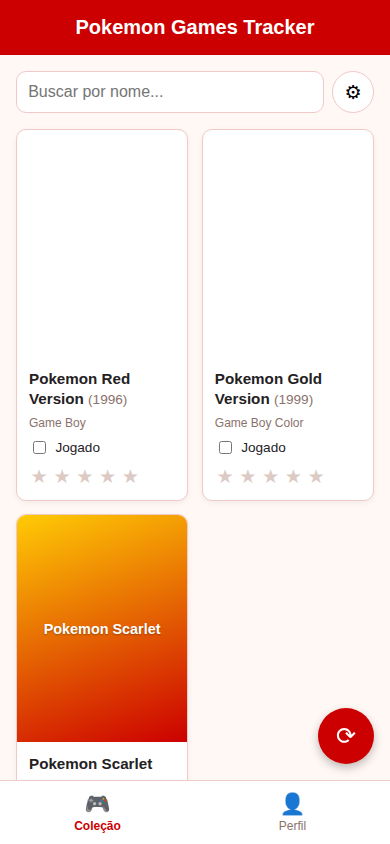
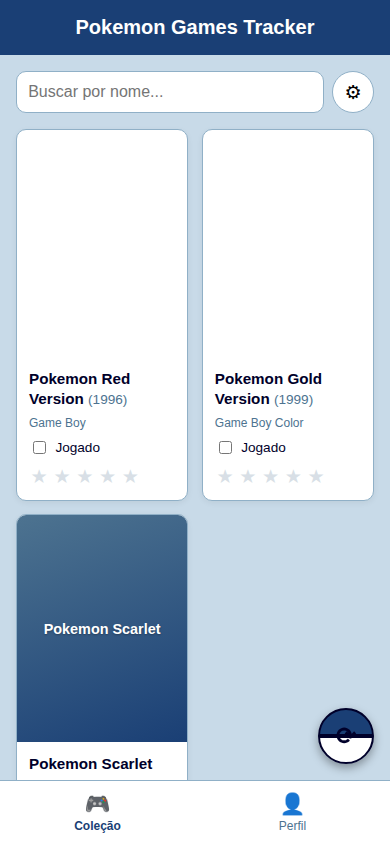
mudança de cores

diff --git a/css/styles.css b/css/styles.css
@@ -1,11 +1,11 @@
 :root {
-  --red: #cc0000;
-  --red-light: #ffe0e0;
-  --red-dark: #970000;
-  --yellow: #ffcb05;
-  --text: #24211f;
-  --border: #f0c9c9;
-  --bg: #fff8f5;
+  --primary: #1a3f75;
+  --primary-dark: #00002a;
+  --primary-light: #c8dae8;
+  --accent: #4d7390;
+  --border: #90b0c7;
+  --text: #00002a;
+  --bg: #c8dae8;
   --radius: 10px;
 }
 
@@ -16,7 +16,10 @@
 body {
   margin: 0;
   font-family: "Segoe UI", Roboto, Helvetica, Arial, sans-serif;
-  background: #cfcfcf;
+  background-color: var(--primary-dark);
[1 lines of base64/hex data omitted]
+  background-repeat: repeat;
+  background-size: 64px 64px;
   color: var(--text);
   display: flex;
   justify-content: center;
@@ -26,7 +29,7 @@ body {
 button:focus-visible,
 input:focus-visible,
 select:focus-visible {
-  outline: 3px solid var(--red-dark);
+  outline: 3px solid var(--primary-dark);
   outline-offset: 2px;
 }
 
@@ -43,13 +46,13 @@ select:focus-visible {
   flex-direction: column;
   position: relative;
   overflow: hidden;
-  box-shadow: 0 0 32px rgba(0, 0, 0, 0.25);
+  box-shadow: 0 0 32px rgba(0, 0, 0, 0.45);
 }
 
 .topbar {
   flex-shrink: 0;
   padding: 1rem 1.25rem;
-  background: var(--red);
+  background: var(--primary);
   color: white;
   text-align: center;
 }
@@ -84,7 +87,7 @@ select:focus-visible {
 
 .onboarding-card h2 {
   margin-top: 0;
-  color: var(--red-dark);
+  color: var(--primary-dark);
 }
 
 .onboarding-card form {
@@ -115,7 +118,7 @@ button {
 .onboarding-card button,
 .profile-header button,
 .sheet button {
-  background: var(--red);
+  background: var(--primary);
   color: white;
   border: none;
   border-radius: var(--radius);
@@ -128,7 +131,7 @@ button {
 .onboarding-card button:hover,
 .profile-header button:hover,
 .sheet button:hover {
-  background: var(--red-dark);
+  background: var(--primary-dark);
 }
 
 .onboarding-card button:active,
@@ -150,13 +153,13 @@ button {
 .onboarding-card button.btn-secondary,
 .profile-header button.btn-secondary {
   background: white;
-  color: var(--red-dark);
-  border: 1px solid var(--red);
+  color: var(--primary-dark);
+  border: 1px solid var(--primary);
 }
 
 .onboarding-card button.btn-secondary:hover,
 .profile-header button.btn-secondary:hover {
-  background: var(--red-light);
+  background: var(--primary-light);
 }
 
 .error-text {
@@ -197,7 +200,7 @@ button {
 }
 
 .icon-btn:hover {
-  background: var(--red-light);
+  background: var(--primary-light);
 }
 
 .icon-btn:active {
@@ -227,7 +230,7 @@ button {
 }
 
 .list-status {
-  color: var(--red-dark);
+  color: var(--primary-dark);
   font-style: italic;
 }
 
@@ -240,7 +243,7 @@ button {
 .empty-message {
   grid-column: 1 / -1;
   text-align: center;
-  color: #7a6b66;
+  color: var(--accent);
   padding: 2rem 0;
 }
 
@@ -256,7 +259,7 @@ button {
 }
 
 .game-card:hover {
-  box-shadow: 0 4px 12px rgba(0, 0, 0, 0.12);
+  box-shadow: 0 4px 12px rgba(0, 0, 0, 0.15);
   transform: translateY(-2px);
 }
 
@@ -270,7 +273,7 @@ button {
 .cover-placeholder {
   width: 100%;
   aspect-ratio: 3 / 4;
-  background: linear-gradient(160deg, var(--yellow), var(--red));
+  background: linear-gradient(160deg, var(--accent), var(--primary));
   display: flex;
   align-items: center;
   justify-content: center;
@@ -299,7 +302,7 @@ button {
 }
 
 .game-year {
-  color: #8a726c;
+  color: var(--accent);
   font-weight: 400;
   font-size: 0.85rem;
 }
@@ -307,7 +310,7 @@ button {
 .game-platforms {
   margin: 0;
   font-size: 0.75rem;
-  color: #8a726c;
+  color: var(--accent);
 }
 
 .played-label {
@@ -328,7 +331,7 @@ button {
   cursor: pointer;
   font-size: 1.2rem;
   line-height: 1;
-  color: #dccac4;
+  color: #d8dfe6;
   padding: 0.1rem;
   transition: color 0.15s ease, transform 0.1s ease;
 }
@@ -338,7 +341,7 @@ button {
 }
 
 .star:hover {
-  color: var(--red-dark);
+  color: var(--primary-dark);
 }
 
 .star:active {
@@ -361,12 +364,12 @@ button {
   margin: 0;
   font-weight: 700;
   font-size: 1.1rem;
-  color: var(--red-dark);
+  color: var(--primary-dark);
 }
 
 .profile-stats {
   margin: 0;
-  color: #8a726c;
+  color: var(--accent);
   font-size: 0.9rem;
 }
 
@@ -377,7 +380,7 @@ button {
 
 .credits-line {
   text-align: center;
-  color: #8a726c;
+  color: var(--accent);
   font-size: 0.8rem;
   margin-top: 1.5rem;
 }
@@ -386,7 +389,7 @@ button {
   margin: 0;
 }
 
-/* Botao flutuante de atualizar, acima da nav inferior */
+/* Botao flutuante de atualizar, com um visual de bola em duas cores */
 .fab {
   position: absolute;
   right: 1rem;
@@ -394,21 +397,29 @@ button {
   width: 56px;
   height: 56px;
   border-radius: 50%;
-  background: var(--red);
-  color: white;
-  border: none;
+  background: linear-gradient(
+    to bottom,
+    var(--primary) 0%,
+    var(--primary) 46%,
+    var(--primary-dark) 46%,
+    var(--primary-dark) 54%,
+    white 54%,
+    white 100%
+  );
+  border: 2px solid var(--primary-dark);
+  color: var(--primary-dark);
   font-size: 1.5rem;
-  box-shadow: 0 4px 10px rgba(0, 0, 0, 0.25);
+  font-weight: 700;
+  box-shadow: 0 4px 10px rgba(0, 0, 0, 0.35);
   cursor: pointer;
   display: flex;
   align-items: center;
   justify-content: center;
-  transition: background 0.15s ease, transform 0.15s ease;
+  transition: transform 0.15s ease;
   z-index: 20;
 }
 
 .fab:hover {
-  background: var(--red-dark);
   transform: scale(1.05);
 }
 
@@ -442,7 +453,7 @@ button {
   gap: 0.15rem;
   background: none;
   border: none;
-  color: #8a726c;
+  color: var(--accent);
   font-size: 0.75rem;
   cursor: pointer;
   transition: color 0.15s ease;
@@ -453,19 +464,19 @@ button {
 }
 
 .nav-btn.active {
-  color: var(--red);
+  color: var(--primary);
   font-weight: 700;
 }
 
 .nav-btn:hover {
-  color: var(--red-dark);
+  color: var(--primary-dark);
 }
 
 /* Painel de filtros, sobe do rodape por cima do conteudo */
 .sheet-overlay {
   position: absolute;
   inset: 0;
-  background: rgba(0, 0, 0, 0.45);
+  background: rgba(0, 0, 42, 0.55);
   display: flex;
   align-items: flex-end;
   justify-content: center;
@@ -504,6 +515,7 @@ button {
 
 .sheet h2 {
   margin: 0;
+  color: var(--primary-dark);
 }
 
 .sheet-handle {
